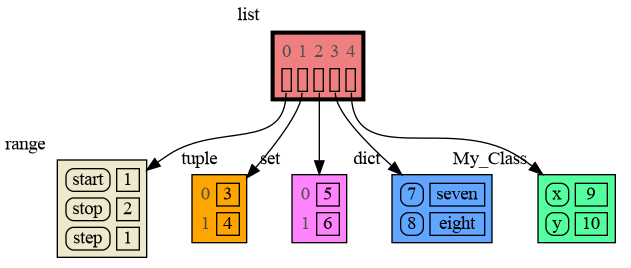
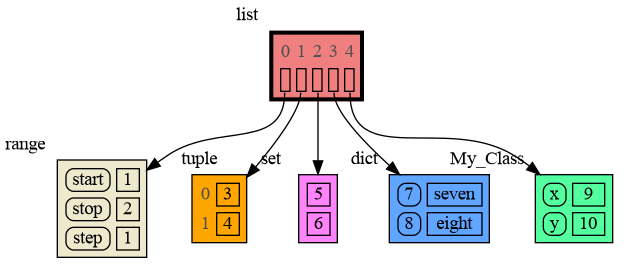
don't show an index for 'set' and 'frozenset'

diff --git a/memory_graph/node_linear.py b/memory_graph/node_linear.py
@@ -6,6 +6,7 @@ from memory_graph.node_base import Node_Base
 from memory_graph.sequence import Sequence1D
 
 import memory_graph.config_helpers as config_helpers
+import memory_graph.config as config
 
 class Node_Linear(Node_Base):
     """
@@ -56,9 +57,11 @@ class Node_Linear(Node_Base):
         """
         Helper function to fill the html_table with the children of the Node_Base in vertical orientation.
         """
+        show_index = not self.get_type() in config.no_index_types
         for index in slices.table_iter(self.children.size()):
             if index>=0:
-                html_table.add_index(index)
+                if show_index:
+                    html_table.add_index(index)
                 child = self.children[index]
                 html_table.add_entry(self, nodes, child, id_to_slices, dashed=slices.is_dashed(index))
                 html_table.add_new_line()
@@ -71,9 +74,11 @@ class Node_Linear(Node_Base):
         """
         Helper function to fill the html_table with the children of the Node_Base in horizontal orientation.
         """
+        show_index = not self.get_type() in config.no_index_types
         for index in slices.table_iter(self.children.size()):
             if index>=0:
-                html_table.add_index(index)
+                if show_index:
+                    html_table.add_index(index)
             else:
                 html_table.add_value('', border=0)
         html_table.add_new_line()

diff --git a/memory_graph/config_default.py b/memory_graph/config_default.py
@@ -52,7 +52,10 @@ def reset():
     """ Types that will embed their children. """
     config.embedding_types = {dict, types.MappingProxyType}
 
-    """ Types that need an special conversion """
+    """ Types that should not show an index """
+    config.no_index_types = {set, frozenset}
+
+    """ Types that need a special conversion """
     config.type_to_string = {
         types.FunctionType: lambda data: data.__qualname__,
         types.MethodType: lambda data: data.__qualname__,

diff --git a/memory_graph/config.py b/memory_graph/config.py
@@ -21,6 +21,8 @@ embedded_key_types = {}
 embedding_types = set()
 no_child_references_types = embedding_types # deprecated
 
+no_index_types = {}
+
 type_to_string = { }
 
 def to_string(data):

diff --git a/README.md b/README.md
@@ -618,6 +618,9 @@ Different aspects of memory_graph can be configured. The default configuration c
 - ***mg.config.embedding_types*** : set[type]
   - Holds all dictionary types that embed their key-value tuple children.
 
+- ***mg.config.no_index_types*** : set[type]
+  - Holds all types like 'set' and 'frozenset' that should not have indices as Node_Linear.
+
 - ***mg.config.type_to_node*** : dict[type, fun(data) -> Node]
   - Determines how a data type is converted to a Node subclass for visualization in the graph.
 
